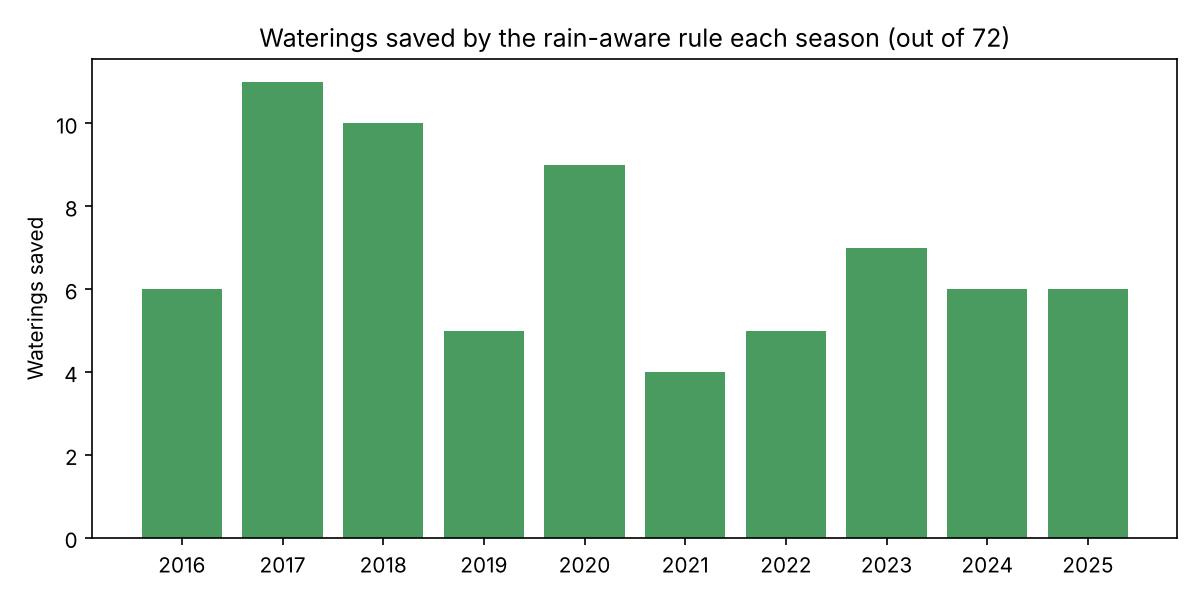
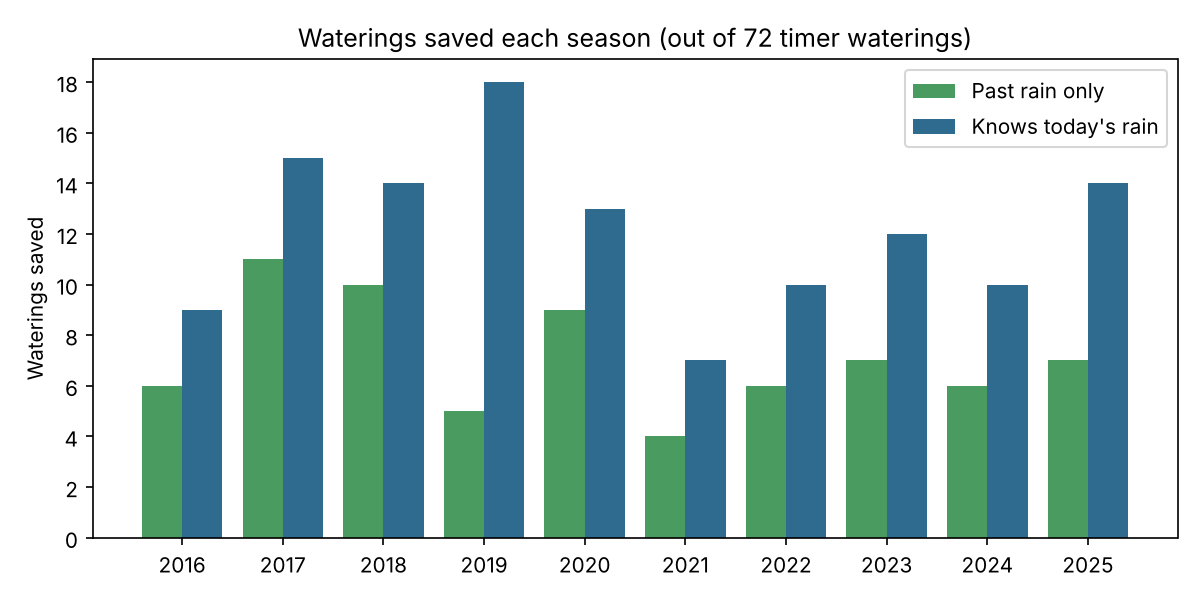
Show both rules in the savings chart

diff --git a/charts.py b/charts.py
@@ -1,34 +1,47 @@
 import matplotlib.pyplot as plt
+from matplotlib.ticker import MaxNLocator
 
-from rain_skip import RAIN_LIMIT, load_data, rule_days, timer_days
+from rain_skip import load_data, recent_rain, rule_days, timer_days
 
-data = load_data()
-timer = timer_days(data)
-timer["after_rain"] = timer["rain_recent"] >= RAIN_LIMIT
-rule = rule_days(data)
 
-years = sorted(timer["date"].dt.year.unique())
-timer_count = timer.groupby(timer["date"].dt.year).size()
-rule_count = rule.groupby(rule["date"].dt.year).size()
-percent = timer.groupby(timer["date"].dt.year)["after_rain"].mean() * 100
+def main():
+    data = load_data()
+    timer = timer_days(data)
+    timer["after_rain"] = timer.apply(recent_rain, axis=1)
 
-# chart 1
-plt.figure(figsize=(8, 4))
-plt.bar(years, percent, color="#4a7fb5")
-plt.title("Timer waterings that came right after real rain (Charlotte, Apr-Oct)")
-plt.ylabel("% of timer waterings")
-plt.xticks(years)
-plt.tight_layout()
-plt.savefig("figures/after_rain_by_year.png", dpi=150)
+    years = sorted(timer["date"].dt.year.unique())
+    timer_count = timer.groupby(timer["date"].dt.year).size()
+    percent = timer.groupby(timer["date"].dt.year)["after_rain"].mean() * 100
 
-# chart 2
-saved = timer_count - rule_count
-plt.figure(figsize=(8, 4))
-plt.bar(years, saved, color="#4a9b5f")
-plt.title("Waterings saved by the rain-aware rule each season (out of 72)")
-plt.ylabel("Waterings saved")
-plt.xticks(years)
-plt.tight_layout()
-plt.savefig("figures/waterings_saved.png", dpi=150)
+    # chart 1
+    plt.figure(figsize=(8, 4))
+    plt.bar(years, percent, color="#4a7fb5")
+    plt.title("Timer waterings that came right after real rain (Charlotte, Apr-Oct)")
+    plt.ylabel("% of timer waterings")
+    plt.xticks(years)
+    plt.tight_layout()
+    plt.savefig("figures/after_rain_by_year.png", dpi=150)
 
-print("Saved charts to figures/")
+    # chart 2
+    width = 0.4
+    plt.figure(figsize=(8, 4))
+    for shift, sensor, color, label in [
+        (-width / 2, False, "#4a9b5f", "Past rain only"),
+        (width / 2, True, "#2f6b8f", "Knows today's rain"),
+    ]:
+        rule = rule_days(data, sensor)
+        saved = timer_count - rule.groupby(rule["date"].dt.year).size()
+        plt.bar([y + shift for y in years], saved, width, color=color, label=label)
+    plt.title(f"Waterings saved each season (out of {timer_count.iloc[0]} timer waterings)")
+    plt.ylabel("Waterings saved")
+    plt.gca().yaxis.set_major_locator(MaxNLocator(integer=True))
+    plt.xticks(years)
+    plt.legend()
+    plt.tight_layout()
+    plt.savefig("figures/waterings_saved.png", dpi=150)
+
+    print("Saved charts to figures/")
+
+
+if __name__ == "__main__":
+    main()
